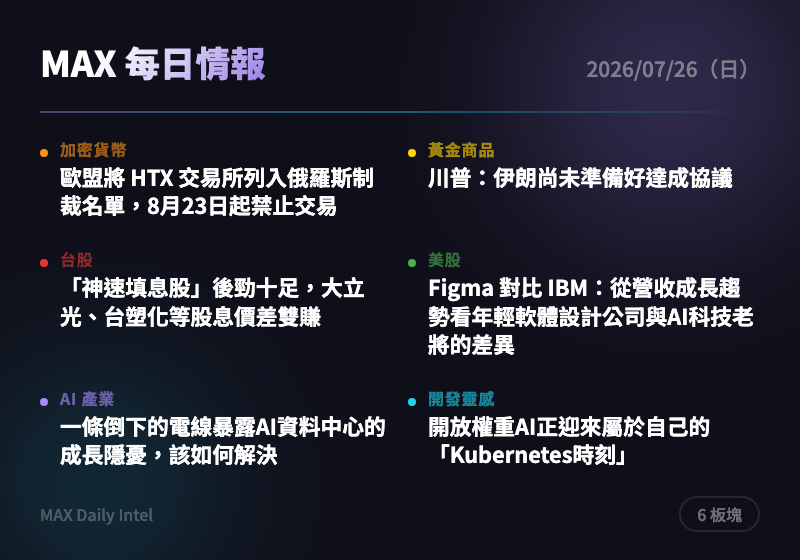
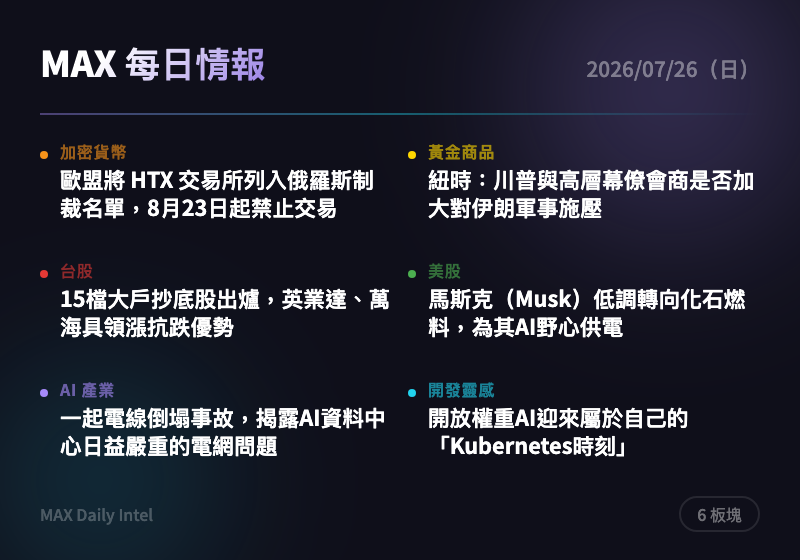
intel: 2026-07-26 每日情報自動生成

diff --git a/docs/2026-07-26.html b/docs/2026-07-26.html
@@ -319,14 +319,14 @@
     <div class="news-card">
       <div class="source">The Block</div>
       <h3><a href="https://www.theblock.co/post/409668/eu-adds-htx-to-russia-sanctions-list-barring-transactions-starting-aug-23?utm_source=rss&utm_medium=rss" target="_blank" rel="noopener">歐盟將 HTX 交易所列入俄羅斯制裁名單，8月23日起禁止交易</a></h3>
-      <div class="summary">歐盟第21輪對俄制裁新增 HTX、EXMO 等多家加密交易平台，8月23日起相關交易一律禁止。此舉顯示西方持續收緊加密貨幣規避制裁的漏洞，將壓縮俄羅斯資金流通管道。涉及俄羅斯/灰色地帶交易的投資人應留意合規風險。</div>
+      <div class="summary">歐盟第21輪對俄制裁新增 HTX 等多家加密平台，8月23日起相關交易一律禁止。此舉顯示西方持續收緊對俄羅斯規避金融制裁的加密管道，對亞洲背景交易所的合規壓力進一步升高。若持有相關交易所曝險部位，建議提前檢視資金去化與合規風險。</div>
       <div class="tags"><span class="tag">地緣政治</span><span class="tag">監管</span><span class="tag">制裁</span><span class="tag">交易所</span></div>
     </div>
     <div class="news-card">
       <div class="source">The Block</div>
-      <h3><a href="https://www.theblock.co/post/409665/robinhood-in-talks-to-add-crypto-com-prediction-markets-as-kalshi-rivalry-grows-wsj?utm_source=rss&utm_medium=rss" target="_blank" rel="noopener">Robinhood 傳與 Crypto.com 洽談合作預測市場，加劇與 Kalshi 競爭</a></h3>
-      <div class="summary">據華爾街日報報導，Robinhood 正與 Crypto.com 商談合作，讓用戶可交易後者衍生品業務提供的是非合約，但目前尚未達成協議。此舉反映預測市場賽道競爭白熱化，Robinhood 意圖擴大版圖對抗 Kalshi。可關注後續正式協議是否成形及對兩家公司股價的催化效果。</div>
-      <div class="tags"><span class="tag">預測市場</span><span class="tag">券商</span><span class="tag">合作</span><span class="tag">監管</span></div>
+      <h3><a href="https://www.theblock.co/post/409665/robinhood-in-talks-to-add-crypto-com-prediction-markets-as-kalshi-rivalry-grows-wsj?utm_source=rss&utm_medium=rss" target="_blank" rel="noopener">Robinhood 傳與 Crypto.com 洽談合作預測市場，加劇與 Kalshi 對抗</a></h3>
+      <div class="summary">據華爾街日報報導，Robinhood 正與 Crypto.com 洽談合作，計畫讓客戶交易後者衍生品業務提供的是非型合約，目前尚未拍板定案。此舉反映預測市場賽道競爭白熱化，Robinhood 意在強化對抗龍頭 Kalshi 的籌碼，同時凸顯傳統券商加速跨界加密衍生品的趨勢。可留意後續正式簽約消息對雙方股價的催化效果。</div>
+      <div class="tags"><span class="tag">交易所</span><span class="tag">預測市場</span><span class="tag">監管</span><span class="tag">美股</span></div>
     </div>
   </section>
 
@@ -338,15 +338,15 @@
     </div>
     <div class="news-card">
       <div class="source">ForexLive</div>
-      <h3><a href="https://investinglive.com/news/trump-iran-not-ready-to-make-a-deal/" target="_blank" rel="noopener">川普：伊朗尚未準備好達成協議</a></h3>
-      <div class="summary">川普表示美伊雙方仍在談判但伊朗尚未準備好簽署協議，同時提及沙烏地阿拉伯應加入亞伯拉罕協議、將對加拿大課徵關稅。地緣政治不確定性持續籠罩市場，是近期黃金與原油避險買盤的主要支撐。建議持續關注中東局勢作為貴金屬部位的風向指標。</div>
-      <div class="tags"><span class="tag">地緣政治</span><span class="tag">伊朗</span><span class="tag">川普</span><span class="tag">避險</span></div>
+      <h3><a href="https://investinglive.com/news/ny-times-trump-meets-with-top-advisors-to-decide-whether-to-increase-military-pressure-on-iran/" target="_blank" rel="noopener">紐時：川普與高層幕僚會商是否加大對伊朗軍事施壓</a></h3>
+      <div class="summary">川普週五與高階顧問及內閣官員閉門會議，討論是否升高對伊朗的軍事行動，起因是停火協議與備忘錄雙雙破裂、重啟談判受阻。地緣政治風險再度升溫，是近期支撐金價與原油走勢的核心變數。若後續傳出軍事升級跡象，避險買盤可能推升黃金短線上攻。</div>
+      <div class="tags"><span class="tag">地緣政治</span><span class="tag">伊朗</span><span class="tag">避險</span><span class="tag">原油</span></div>
     </div>
     <div class="news-card">
       <div class="source">ForexLive</div>
-      <h3><a href="https://investinglive.com/news/ny-times-trump-meets-with-top-advisors-to-decide-whether-to-increase-military-pressure-on-iran/" target="_blank" rel="noopener">紐約時報：川普與高層顧問會商是否加大對伊朗軍事壓力</a></h3>
-      <div class="summary">川普週五與高階顧問及內閣官員會面，討論是否升級對伊朗的軍事行動，此舉發生於停火協議與備忘錄雙雙破裂之後。若軍事升級成真，將進一步推升原油與避險資產價格，市場波動風險加大。建議提高對油價與黃金的短期波動預期。</div>
-      <div class="tags"><span class="tag">地緣政治</span><span class="tag">伊朗</span><span class="tag">軍事</span><span class="tag">原油</span></div>
+      <h3><a href="https://investinglive.com/news/eu-fines-today-trump-301-tariffs-tomorrow/" target="_blank" rel="noopener">歐盟今日開罰科技巨頭，川普明日恐祭出301關稅報復</a></h3>
+      <div class="summary">川普在社群平台批評歐盟再度對美企開鍘，繼蘋果、Meta、亞馬遜後這次對 Google 加罰10億美元、累計已逾180億美元，並暗示將以301條款關稅反制。貿易摩擦若升級，將牽動美元、黃金與美股的避險與通膨預期。建議關注下週美方是否正式宣布對歐關稅措施。</div>
+      <div class="tags"><span class="tag">貿易戰</span><span class="tag">關稅</span><span class="tag">科技巨頭</span><span class="tag">地緣政治</span></div>
     </div>
   </section>
 
@@ -358,15 +358,15 @@
     </div>
     <div class="news-card">
       <div class="source">經濟日報</div>
-      <h3><a href="https://money.udn.com/money/story/5607/9651110" target="_blank" rel="noopener">「神速填息股」後勁十足，大立光、台塑化等股息價差雙賺</a></h3>
-      <div class="summary">受惠 AI 需求強勁帶動企業獲利上修，台股大型權值股填息力道兇猛，台積電等多檔一日速填息，大立光、台塑化、華邦電除息後更狂飆逾六成。顯示資金持續聚焦AI供應鏈龍頭股，填息行情延續多頭氣勢。可留意後續除權息旺季中具備獲利成長動能的權值股。</div>
-      <div class="tags"><span class="tag">台股</span><span class="tag">AI</span><span class="tag">除權息</span><span class="tag">權值股</span></div>
+      <h3><a href="https://money.udn.com/money/story/5607/9651106" target="_blank" rel="noopener">15檔大戶抄底股出爐，英業達、萬海具領漲抗跌優勢</a></h3>
+      <div class="summary">台股近期指數反覆震盪、觀望氣氛濃厚，但法人與大戶已進場布局英業達、萬海等15檔強勢股，顯示籌碼面出現分歧訊號。這類具大戶抄底優勢的個股，在大盤震盪期間可望扮演抗跌指標角色。可作為短線選股觀察名單，留意籌碼延續性。</div>
+      <div class="tags"><span class="tag">台股</span><span class="tag">籌碼面</span><span class="tag">個股</span></div>
     </div>
     <div class="news-card">
       <div class="source">經濟日報</div>
-      <h3><a href="https://money.udn.com/money/story/8543/9651132" target="_blank" rel="noopener">股海自由行：半導體供應鏈升級利多不斷</a></h3>
-      <div class="summary">近期市場面臨地緣政治緊張推升油價（布蘭特突破每桶百美元）及美債殖利率彈升至4.69%高檔的雙重壓力，激勵通膨與升息疑慮升溫，高估值資產面臨獲利了結賣壓。不過半導體供應鏈仍受惠技術升級題材，逢低布局價值浮現。建議留意油價與美債殖利率變化對成長股估值的壓抑效應。</div>
-      <div class="tags"><span class="tag">半導體</span><span class="tag">總經</span><span class="tag">殖利率</span><span class="tag">原油</span></div>
+      <h3><a href="https://money.udn.com/money/story/8543/9651132" target="_blank" rel="noopener">股海自由行：半導體鏈升級利多一波波，但油價升息疑慮壓抑風險偏好</a></h3>
+      <div class="summary">近期布蘭特原油突破每桶100美元，帶動美國10年期公債殖利率彈升至4.69%高檔，壓抑市場風險偏好並引發高估值資產獲利了結賣壓。不過半導體供應鏈升級題材仍具支撐力道，是目前多空拉鋸下的重要觀察焦點。操作上建議留意殖利率與油價變化對權值股評價的壓力測試。</div>
+      <div class="tags"><span class="tag">半導體</span><span class="tag">台股</span><span class="tag">升息</span><span class="tag">原油</span></div>
     </div>
   </section>
 
@@ -378,15 +378,15 @@
     </div>
     <div class="news-card">
       <div class="source">Yahoo Finance</div>
-      <h3><a href="https://finance.yahoo.com/markets/stocks/articles/figma-vs-ibm-revenue-growth-223501181.html" target="_blank" rel="noopener">Figma 對比 IBM：從營收成長趨勢看年輕軟體設計公司與AI科技老將的差異</a></h3>
-      <div class="summary">文章比較新興軟體設計公司 Figma (Figma) 與老牌科技巨頭 IBM (IBM) 的營收成長趨勢，凸顯新創與傳統科技巨頭在AI浪潮下的不同成長軌跡。對投資人而言，此類比較有助評估成長股與價值股在AI主題中的相對配置。可作為科技股選股時成長性與估值權衡的參考。</div>
-      <div class="tags"><span class="tag">美股</span><span class="tag">AI</span><span class="tag">科技股</span><span class="tag">財報</span></div>
+      <h3><a href="https://finance.yahoo.com/energy/articles/elon-musk-quietly-turning-fossil-223500890.html" target="_blank" rel="noopener">馬斯克（Musk）低調轉向化石燃料，為其AI野心供電</a></h3>
+      <div class="summary">馬斯克旗下事業被發現正悄悄採用化石燃料為AI資料中心供電，凸顯AI算力擴張對能源需求的巨大壓力已超出再生能源與電網的即時供給能力。此趨勢反映AI基礎建設的能源瓶頸正成為產業成長的實質限制因素，也可能引發環保與監理爭議。建議關注能源類股與AI資料中心供應鏈的連動機會。</div>
+      <div class="tags"><span class="tag">AI</span><span class="tag">能源</span><span class="tag">馬斯克</span><span class="tag">資料中心</span></div>
     </div>
     <div class="news-card">
       <div class="source">Yahoo Finance</div>
-      <h3><a href="https://www.investors.com/market-trend/stock-market-today/dow-jones-futures-apple-earnings-iran-news-fed-meeting-ai-stocks/?src=A00220&yptr=yahoo" target="_blank" rel="noopener">道瓊期貨觸發賣出訊號，蘋果財報、伊朗局勢與Fed會議成焦點</a></h3>
-      <div class="summary">市場出現賣出訊號警訊，本週投資人聚焦蘋果財報、伊朗地緣政治情勢及聯準會利率決策等三大變數。多重不確定因素交織可能加劇短線波動，AI類股尤其敏感。建議控制部位並密切關注下週Fed會議與科技巨頭財報表現。</div>
-      <div class="tags"><span class="tag">美股</span><span class="tag">聯準會</span><span class="tag">財報季</span><span class="tag">地緣政治</span></div>
+      <h3><a href="https://www.investors.com/market-trend/stock-market-today/dow-jones-futures-apple-earnings-iran-news-fed-meeting-ai-stocks/?src=A00220&yptr=yahoo" target="_blank" rel="noopener">道瓊期貨觸發賣出訊號，市場聚焦蘋果財報、伊朗局勢與Fed會議</a></h3>
+      <div class="summary">市場技術面觸發賣出訊號，投資人下週將同步緊盯蘋果財報、伊朗地緣政治發展及聯準會利率決策，三大變數交織增添波動風險。AI類股近期回檔加劇了大盤的不確定性，建議關注Fed會後表態對利率路徑的影響。短線宜控管部位、留意財報與地緣政治意外消息。</div>
+      <div class="tags"><span class="tag">美股</span><span class="tag">聯準會</span><span class="tag">財報</span><span class="tag">地緣政治</span></div>
     </div>
   </section>
 
@@ -398,15 +398,15 @@
     </div>
     <div class="news-card">
       <div class="source">TechCrunch AI</div>
-      <h3><a href="https://techcrunch.com/2026/07/25/one-fallen-power-line-exposed-a-growing-ai-data-center-problem-heres-how-to-fix-it/" target="_blank" rel="noopener">一條倒下的電線暴露AI資料中心的成長隱憂，該如何解決</a></h3>
-      <div class="summary">北維吉尼亞一起電線故障事件，揭露AI資料中心面對電網中斷時應變能力嚴重不足的問題。隨著AI算力需求暴增，資料中心用電規模與電網韌性之間的落差日益凸顯，可能成為AI基礎建設擴張的隱藏風險。建議關注電力基礎設施類股及資料中心營運商的韌性升級投資。</div>
-      <div class="tags"><span class="tag">AI</span><span class="tag">資料中心</span><span class="tag">能源</span><span class="tag">基礎建設</span></div>
+      <h3><a href="https://techcrunch.com/2026/07/25/one-fallen-power-line-exposed-a-growing-ai-data-center-problem-heres-how-to-fix-it/" target="_blank" rel="noopener">一起電線倒塌事故，揭露AI資料中心日益嚴重的電網問題</a></h3>
+      <div class="summary">北維吉尼亞一起電線倒塌的驚險事件，暴露出AI資料中心在面對電網突發中斷時的應變能力嚴重不足。隨著AI算力需求持續擴張，資料中心與電網韌性之間的落差已成為產業關注焦點，凸顯基礎建設投資的迫切性。可留意後續是否有相關監理或電網升級政策跟進。</div>
+      <div class="tags"><span class="tag">AI</span><span class="tag">資料中心</span><span class="tag">基礎建設</span><span class="tag">電網</span></div>
     </div>
     <div class="news-card">
       <div class="source">TechCrunch AI</div>
-      <h3><a href="https://techcrunch.com/2026/07/24/prentis-new-ai-lab-co-founded-by-reid-hoffman-mark-pincus-in-talks-to-raise-100m/" target="_blank" rel="noopener">Reid Hoffman、Mark Pincus 共同創辦的新AI實驗室 Prentis 洽談募資1億美元</a></h3>
-      <div class="summary">新創AI實驗室 Prentis 由知名創業家 Reid Hoffman（霍夫曼）與 Mark Pincus（平克斯）共同創立，正洽談募資一億美元。該實驗室押注自動化例行電腦任務將很快超越程式撰寫，成為AI最大應用場景。此發展顯示AI應用重心可能從程式生成轉向更廣泛的辦公自動化，值得關注相關賽道新創估值變化。</div>
-      <div class="tags"><span class="tag">AI</span><span class="tag">新創</span><span class="tag">募資</span><span class="tag">自動化</span></div>
+      <h3><a href="https://techcrunch.com/2026/07/24/prentis-new-ai-lab-co-founded-by-reid-hoffman-mark-pincus-in-talks-to-raise-100m/" target="_blank" rel="noopener">Reid Hoffman、Mark Pincus共同創辦新AI實驗室Prentis，洽談募資1億美元</a></h3>
+      <div class="summary">新創AI實驗室Prentis由知名創業者Reid Hoffman（霍夫曼）與Mark Pincus（品克斯）共同創辦，正洽談募資1億美元。該實驗室押注自動化日常電腦任務將取代寫程式，成為AI最大應用場景，反映資本持續押注AI代理（agent）類應用的下一波成長點。可觀察其募資完成後的產品方向與競品格局。</div>
+      <div class="tags"><span class="tag">AI</span><span class="tag">新創募資</span><span class="tag">AI代理</span></div>
     </div>
   </section>
 
@@ -418,15 +418,15 @@
     </div>
     <div class="news-card">
       <div class="source">Hacker News Best</div>
-      <h3><a href="https://tobi.knaup.me/2026-07-25-open-weight-ai-is-having-its-kubernetes-moment/" target="_blank" rel="noopener">開放權重AI正迎來屬於自己的「Kubernetes時刻」</a></h3>
-      <div class="summary">文章指出開放權重（open-weight）AI模型生態正經歷類似 Kubernetes 當年顛覆基礎設施產業的典範轉移，標準化與編排工具將成為關鍵戰場。此趨勢反映開源AI基礎設施競爭將從單一模型優劣轉向生態系與工具鏈整合能力。開發者與企業可提前布局開放權重模型的部署與編排工具鏈。</div>
-      <div class="tags"><span class="tag">開源</span><span class="tag">AI基礎建設</span><span class="tag">開發工具</span></div>
+      <h3><a href="https://tobi.knaup.me/2026-07-25-open-weight-ai-is-having-its-kubernetes-moment/" target="_blank" rel="noopener">開放權重AI迎來屬於自己的「Kubernetes時刻」</a></h3>
+      <div class="summary">這篇獲Hacker News高度關注（277分、222則留言）的文章指出，開放權重AI模型生態正迎來如當年Kubernetes標準化容器編排般的關鍵轉折點。隨著開源模型部署工具鏈逐漸成熟，企業自建AI基礎設施的門檻可能大幅降低，衝擊雲端AI服務的既有壟斷地位。值得開發者與基礎設施團隊持續關注相關標準化工具的演進。</div>
+      <div class="tags"><span class="tag">開源</span><span class="tag">AI</span><span class="tag">基礎設施</span><span class="tag">開發工具</span></div>
     </div>
     <div class="news-card">
       <div class="source">Product Hunt</div>
-      <h3><a href="https://www.producthunt.com/products/opencomputer" target="_blank" rel="noopener">OpenComputer：部署代理程式（Agent）最簡單的方式</a></h3>
-      <div class="summary">新產品 OpenComputer 在 Product Hunt 上架，主打「最簡單方式部署受管理的AI代理程式」。此類工具降低了企業與開發者導入自主AI代理的技術門檻，反映AI Agent基礎設施賽道持續升溫。可留意此類部署平台是否會成為AI Agent普及化的關鍵基礎工具。</div>
-      <div class="tags"><span class="tag">AI Agent</span><span class="tag">開發工具</span><span class="tag">新產品</span></div>
+      <h3><a href="https://www.producthunt.com/products/openai" target="_blank" rel="noopener">「Health in ChatGPT」上線 Product Hunt：以ChatGPT為基礎的個人健康小幫手</a></h3>
+      <div class="summary">新產品「Health in ChatGPT」在Product Hunt上架，定位為由ChatGPT驅動的個人健康管理助手。此類垂直應用顯示通用型AI對話工具持續往專業領域（健康管理）滲透，是觀察AI應用商業化落地的一個指標案例。可留意其實際功能深度與資料隱私處理方式。</div>
+      <div class="tags"><span class="tag">AI應用</span><span class="tag">健康科技</span><span class="tag">ChatGPT</span></div>
     </div>
   </section>
 

diff --git a/docs/cards/2026-07-26-card.html b/docs/cards/2026-07-26-card.html
@@ -24,10 +24,10 @@ body{width:400px;height:280px;font-family:'Noto Sans TC',-apple-system,sans-seri
 <div class="top-row"><span class="title">MAX 每日情報</span><span class="date">2026/07/26（日）</span></div>
 <div class="divider"></div>
 <div class="grid"><div class="cell"><div class="dot" style="background:#f7931a"></div><div><div class="label" style="color:#f7931a">加密貨幣</div><div class="headline">歐盟將 HTX 交易所列入俄羅斯制裁名單，8月23日起禁止交易</div></div></div>
-<div class="cell"><div class="dot" style="background:#ffd700"></div><div><div class="label" style="color:#ffd700">黃金商品</div><div class="headline">川普：伊朗尚未準備好達成協議</div></div></div>
-<div class="cell"><div class="dot" style="background:#e53935"></div><div><div class="label" style="color:#e53935">台股</div><div class="headline">「神速填息股」後勁十足，大立光、台塑化等股息價差雙賺</div></div></div>
-<div class="cell"><div class="dot" style="background:#4caf50"></div><div><div class="label" style="color:#4caf50">美股</div><div class="headline">Figma 對比 IBM：從營收成長趨勢看年輕軟體設計公司與AI科技老將的差異</div></div></div>
-<div class="cell"><div class="dot" style="background:#a78bfa"></div><div><div class="label" style="color:#a78bfa">AI 產業</div><div class="headline">一條倒下的電線暴露AI資料中心的成長隱憂，該如何解決</div></div></div>
-<div class="cell"><div class="dot" style="background:#22d3ee"></div><div><div class="label" style="color:#22d3ee">開發靈感</div><div class="headline">開放權重AI正迎來屬於自己的「Kubernetes時刻」</div></div></div></div>
+<div class="cell"><div class="dot" style="background:#ffd700"></div><div><div class="label" style="color:#ffd700">黃金商品</div><div class="headline">紐時：川普與高層幕僚會商是否加大對伊朗軍事施壓</div></div></div>
+<div class="cell"><div class="dot" style="background:#e53935"></div><div><div class="label" style="color:#e53935">台股</div><div class="headline">15檔大戶抄底股出爐，英業達、萬海具領漲抗跌優勢</div></div></div>
+<div class="cell"><div class="dot" style="background:#4caf50"></div><div><div class="label" style="color:#4caf50">美股</div><div class="headline">馬斯克（Musk）低調轉向化石燃料，為其AI野心供電</div></div></div>
+<div class="cell"><div class="dot" style="background:#a78bfa"></div><div><div class="label" style="color:#a78bfa">AI 產業</div><div class="headline">一起電線倒塌事故，揭露AI資料中心日益嚴重的電網問題</div></div></div>
+<div class="cell"><div class="dot" style="background:#22d3ee"></div><div><div class="label" style="color:#22d3ee">開發靈感</div><div class="headline">開放權重AI迎來屬於自己的「Kubernetes時刻」</div></div></div></div>
 <div class="bottom-row"><span class="url">MAX Daily Intel</span><span class="badge">6 板塊</span></div>
 </div></body></html>
